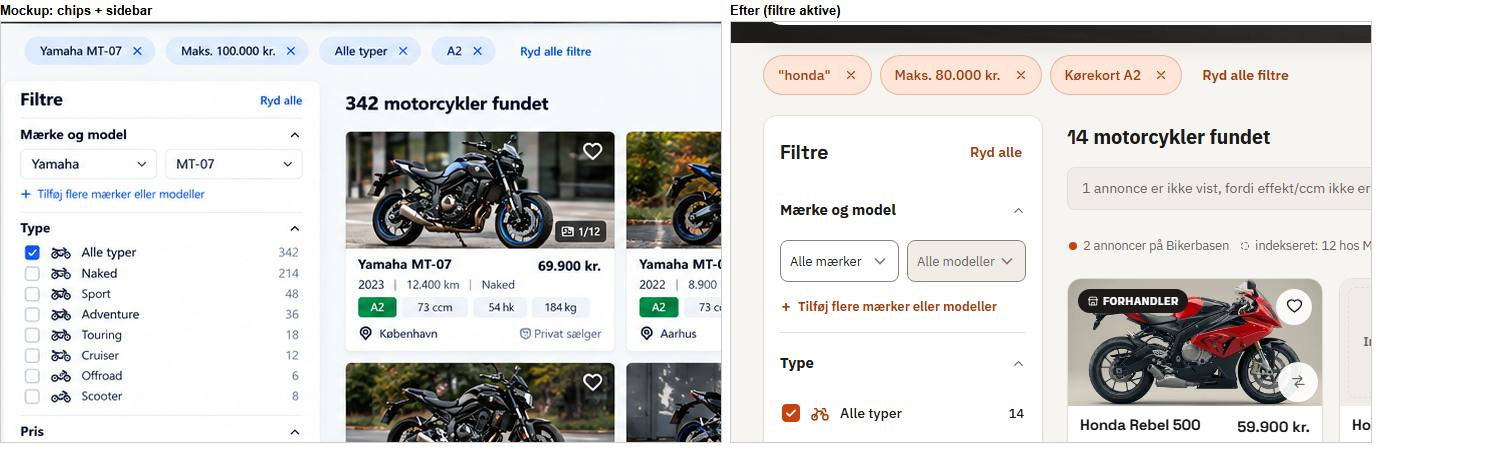
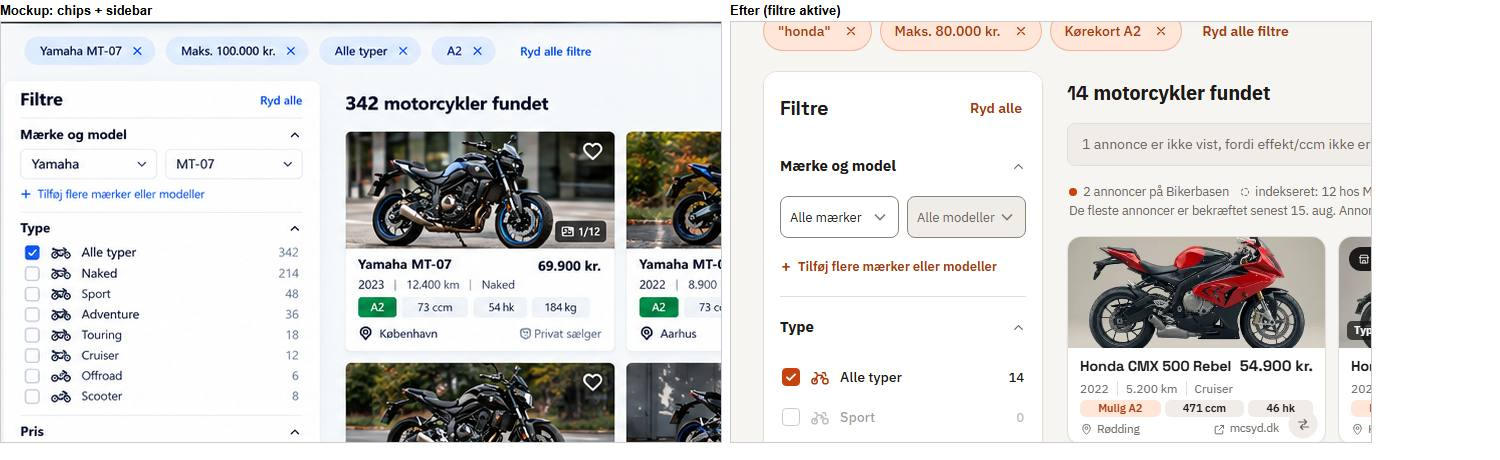
soegning: kort 209 px (2,3:1, én-linjes titel, sammenlign i foden), typefoto med aerligt label, hero 165 px, info uden ellipsis, 503 under soegekortet, kompakte bundmoduler, CLS-hold (iteration 3-4)

diff --git a/css/p-soegning.css b/css/p-soegning.css
@@ -579,7 +579,7 @@ html[data-lager-fejl] .facet-empty{ opacity:1; cursor:pointer; }
   .so-hero .so-card{ padding:12px 16px; gap:8px 14px; }
   .so-card .input, .so-card #filter-q{ height:44px; min-height:44px; }
   .so-submit{ min-height:46px; }
-  .so-f-kk .kk-seg label{ min-height:36px; }
+  .so-f-kk .kk-seg label{ min-height:40px; }
 }
 @media (min-width:1100px){
   /* Info-bånd: én rolig linje; sorteringsreglen står i (i) ved Sortér. */
@@ -602,17 +602,6 @@ html[data-lager-fejl] .facet-empty{ opacity:1; cursor:pointer; }
 }
 @media (min-width:1100px){ .so-infoband .mix-info{ margin-block:0; } .so-infoband .results-mix .mix-tail{ flex-wrap:nowrap; } }
 
-/* ---- W14 iteration 2: mobilkomposition ---- */
-@media (max-width:559px){
-  .so-chiprow{ padding-top:6px; padding-bottom:0; }
-  .so-layout{ padding-top:0; }
-  .so-toolbar{ margin-bottom:6px; }
-  .so-infoband{ min-height:44px; }
-  .so-infoband .so-frisk{ display:-webkit-box; -webkit-box-orient:vertical; -webkit-line-clamp:1; line-clamp:1; overflow:hidden; }
-  .so-infoband > :not([hidden]) ~ :not([hidden]){ flex:1 1 100%; }
-  .so-infoband .sortering-note{ display:none; }
-}
-@media (max-width:559px){ .so-h1-title{ font-size:25px; } .so-hero .so-h1{ margin-bottom:8px; } .so-h1-sub{ font-size:15px; } }
 @media (min-width:760px){
   /* Kildenavnet afkortes ikke længere midt i ordet: op til 2 linjer (rækkens kort er ens høje, foden ligger i bunden). */
   #results-grid:not(.list-view) .rk-fod{ align-items:flex-start; }
@@ -620,4 +609,86 @@ html[data-lager-fejl] .facet-empty{ opacity:1; cursor:pointer; }
   #results-grid:not(.list-view) .rk-kilde{ align-items:flex-start; line-height:1.3; }
   #results-grid:not(.list-view) .rk-kilde svg, #results-grid:not(.list-view) .rk-sted svg{ margin-top:.2em; }
   #results-grid:not(.list-view) .rk-kilde > span{ display:-webkit-box; -webkit-box-orient:vertical; -webkit-line-clamp:2; line-clamp:2; white-space:normal; overflow:hidden; overflow-wrap:anywhere; }
+}
+
+/* ---- W14 iteration 3: kortet som mockuppen (lavt, ens, foto 2,3:1), typefoto-label, hero, info, bund, 503 ---- */
+@media (min-width:760px){
+  #results-grid:not(.list-view){ gap:12px; }
+  #results-grid:not(.list-view) .card-rich .card-media{ aspect-ratio:2.3/1; }
+  #results-grid:not(.list-view) .rk-body{ padding:7px 12px 7px; gap:3px; }
+  #results-grid:not(.list-view) .rk-titel{ -webkit-line-clamp:1; line-clamp:1; font-size:14.5px; line-height:1.3; }
+  #results-grid:not(.list-view) .rk-pris{ font-size:15px; }
+  #results-grid:not(.list-view) .rk-top{ align-items:baseline; }
+  #results-grid:not(.list-view) .rk-linje{ font-size:12px; line-height:1.25; }
+  #results-grid:not(.list-view) .rk-chip{ padding:4px 5px; font-size:11px; }
+  #results-grid:not(.list-view) .rk-chip.rk-kk svg{ display:none; }
+  #results-grid:not(.list-view) .rk-chips{ flex-wrap:nowrap; overflow:hidden; margin-top:1px; }
+  #results-grid:not(.list-view) .rk-kk.kk-a{ background:transparent; color:var(--color-fg); box-shadow:inset 0 0 0 1px var(--color-input-border); }
+  #results-grid:not(.list-view) .rk-fod{ font-size:11.5px; padding-right:34px; align-items:center; }
+  #results-grid:not(.list-view) .rk-kilde > span{ display:block; -webkit-line-clamp:unset; white-space:nowrap; overflow:hidden; text-overflow:ellipsis; }
+  #results-grid:not(.list-view) .rk-kilde{ align-items:center; }
+  #results-grid:not(.list-view) .rk-sted{ max-width:42%; }
+  /* Sammenlign-knappen ligger i kortets fod (ikke over motivet): 40 px trykflade, 30 px synlig rund. */
+  #results-grid:not(.list-view) .card-compare{
+    right:2px; bottom:0; width:40px; height:40px; box-shadow:none; background:radial-gradient(circle, var(--color-surface-2) 0 14px, transparent 15px);
+  }
+  #results-grid:not(.list-view) .card-compare.active{ background:radial-gradient(circle, var(--color-primary) 0 14px, transparent 15px); }
+  #results-grid:not(.list-view) .card-compare svg{ width:15px; height:15px; }
+}
+/* typefoto-label: roligt, synligt, nederst til venstre i fotoet */
+.typefoto-label{ position:absolute; z-index:1; font-size:11px; font-weight:600; line-height:1; padding:4px 7px; border-radius:5px;
+  background:rgba(20,18,15,.72); color:#fff; letter-spacing:.01em; pointer-events:none; }
+.card-photo-typefoto{ opacity:.9; }
+.typefoto{ position:relative; width:100%; height:100%; }
+.typefoto .card-photo{ width:100%; height:100%; object-fit:cover; filter:saturate(.75); }
+.typefoto .typefoto-label{ left:8px; bottom:8px; }
+@media (min-width:1100px){
+  /* hero: ca. 180 px, overskrift og undertitel paa samme linje, motorcyklen laeses i bannerets overkant */
+  .so-hero{ padding:12px 0 12px; }
+  .so-hero .so-h1{ display:flex; align-items:baseline; gap:6px 18px; flex-wrap:wrap; margin-bottom:8px; }
+  .so-h1-sub{ margin-top:0; }
+  .so-hero-photo{ object-position:74% 34%; }
+  .so-hero .so-card{ padding:8px 16px 10px; }
+  /* info-bånd: fuld tekst (ingen ellipsis), to rolige linjer, sorteringsnoten synlig */
+  .so-infoband{ flex-wrap:wrap; min-height:42px; row-gap:0; }
+  .so-infoband .results-mix{ flex:1 1 100%; white-space:nowrap !important; }
+  .so-infoband .so-frisk{ flex:0 1 auto; overflow:visible; text-overflow:clip; white-space:normal; }
+  .so-infoband .so-frisk:not(:empty)::before{ content:none; }
+  .so-infoband .sortering-note{ display:block; flex:0 1 auto; white-space:normal; margin-left:0 !important; }
+  .so-infoband .sortering-note::before, .so-infoband .so-frisk:not(:empty) + .sortering-note:not([hidden])::before{ content:"·"; margin:0 8px; }
+  .so-infoband .mix-info{ margin-block:-10px; }
+}
+/* 503/tomt lager: fast overlay nederst til hoejre i stedet for over soegekortet */
+@media (min-width:1024px){
+  body.srp .data-afbrud{ top:auto; bottom:16px; }
+}
+/* Bundmoduler: kompakt linkgitter (kun >= 1100 px; under det er layoutet uændret, ellers CLS ved 768) */
+@media (min-width:1100px){
+main > .container:has(> section.section > .section-head + .popular-row){
+  display:grid; grid-template-columns:repeat(auto-fit,minmax(240px,1fr)); gap:12px 16px; padding-bottom:var(--space-6);
+}
+main > .container:has(> section.section > .section-head + .popular-row) > .section{
+  padding:14px 16px !important; background:var(--color-surface); border:1px solid var(--color-border); border-radius:var(--radius-md); margin:0;
+}
+main > .container:has(> section.section > .section-head + .popular-row) .section-head{ margin:0 0 8px; }
+main > .container:has(> section.section > .section-head + .popular-row) h2{ font-size:16px; margin:0; }
+main > .container:has(> section.section > .section-head + .popular-row) .section-head p{ display:none; }
+main > .container:has(> section.section > .section-head + .popular-row) .popular-chip{ min-height:40px; padding:0 12px; font-size:13px; }
+}
+/* Filter: lange maerke-/modellister scroller internt, saa Type bliver paa plads */
+.so-more #brand-list, .so-more #filter-models{ max-height:176px; overflow:auto; overscroll-behavior:contain; }
+/* tap-maal */
+.so-f-kk .kk-seg label{ min-width:40px; }
+@media (min-width:760px){ #results-grid:not(.list-view) .rk-fod{ padding-top:0; } #results-grid:not(.list-view) .rk-chip{ padding:3px 5px; } }
+.so-layout .so-more-btn{ min-height:40px; }
+.so-layout #filter-price-quick .chip, .so-layout .filter-body .chip{ min-height:40px; }
+.so-card .so-clear{ width:40px; height:40px; }
+@media (min-width:760px){
+  #results-grid:not(.list-view) .rk-chips{ flex-wrap:nowrap !important; }
+  #results-grid:not(.list-view) .rk-chip{ min-width:0; overflow:hidden; text-overflow:ellipsis; flex-shrink:1; }
+  #results-grid:not(.list-view) .rk-chip.rk-chip-note, #results-grid:not(.list-view) .rk-chip.rk-chip-mangler{ flex:0 1 auto; white-space:nowrap; background:transparent; border:0; box-shadow:inset 0 0 0 1px var(--color-border); }
+  #results-grid:not(.list-view) .rk-chip.rk-kk{ flex-shrink:0; max-width:100%; }
+}
+@media (max-width:759px){
+  .typefoto .typefoto-label{ left:6px; bottom:6px; max-width:calc(100% - 54px); font-size:10px; line-height:1.15; padding:3px 6px; white-space:normal; }
 }

diff --git a/js/w14-soegning.test.js b/js/w14-soegning.test.js
@@ -86,7 +86,7 @@ test('1440: foto ca. 2:1, ingen tom chip-række, Gem søgning i resultathovedet,
       return { ratio: med.width / med.height, chiprow: getComputedStyle(document.getElementById('so-chiprow')).display,
         knapI: !!knap.closest('#so-results-head'), cardBund: R('.so-card').bottom, toolbarTop: R('#so-results-head').top };
     });
-    assert.ok(m.ratio > 1.9 && m.ratio < 2.1, 'foto-format ' + m.ratio);
+    assert.ok(m.ratio > 2.2 && m.ratio < 2.4, 'foto-format ' + m.ratio);
     assert.equal(m.chiprow, 'none');
     assert.ok(m.knapI, 'Gem søgning i resultathovedet');
     assert.ok(m.cardBund <= 330, 'søgekortets underkant ' + m.cardBund);
@@ -99,12 +99,12 @@ test('1440: foto ca. 2:1, ingen tom chip-række, Gem søgning i resultathovedet,
         kortH: R('#results-grid .card').height, kortBredde: R('#results-grid .card').width,
         kortIHero: R('.so-card').bottom <= R('.so-hero').bottom + 1 };
     });
-    assert.ok(n.heroH <= 225, 'hero ' + n.heroH);
+    assert.ok(n.heroH <= 190, 'hero ' + n.heroH);
     assert.ok(n.kortIHero, 'søgekortet ligger i bannerfotoet');
     assert.ok(n.band <= 44, 'info-bånd er én linje: ' + n.band);
     assert.ok(!n.bkSynlig, 'brødkrumme er kun for skærmlæsere i hero');
-    assert.equal(n.sorteringsnote, 'none', 'sorteringsreglen bor i (i) ved Sortér');
-    assert.ok(n.kortH <= 290, 'kort højde ' + n.kortH);
+    assert.equal(n.sorteringsnote, 'block', 'sorteringsreglen er synlig i info-linjen');
+    assert.ok(n.kortH >= 195 && n.kortH <= 215, 'kort højde ' + n.kortH);
     const [sw, cw] = await s.page.evaluate(() => [document.documentElement.scrollWidth, document.documentElement.clientWidth]);
     assert.equal(sw, cw);
     assert.deepEqual(s.fejl, []);
@@ -122,5 +122,71 @@ test('filter-URL 1440: chip-rækken vises; under 1280 bliver Gem søgning i chip
     await s.page.setViewportSize({ width: 1440, height: 900 });
     await s.page.waitForTimeout(400);
     assert.ok(await s.page.evaluate(() => !!document.getElementById('save-search-btn').closest('#so-results-head')));
+  } finally { await s.luk(); }
+});
+
+test('1440 uden thumbnails: ærligt typefoto med label (ingen stiplede tomme felter), sammenlign i kortets fod, titel på én linje', { skip }, async () => {
+  const s = await aabn({ w: 1440, n: 44 });
+  try {
+    await gaa(s, 'soegning.html');
+    const m = await s.page.evaluate(() => {
+      const kort = [...document.querySelectorAll('#results-grid .card-rich')];
+      return {
+        n: kort.length,
+        stiplet: kort.filter(k => k.querySelector('.card-media > .foto-tom:not(.foto-fejl)')).length,
+        typefoto: kort.filter(k => k.querySelector('.typefoto .typefoto-label')).length,
+        labelTekst: [...new Set([...document.querySelectorAll('.typefoto-label')].map(e => e.textContent))],
+        samIFoto: kort.filter(k => k.querySelector('.card-media .card-compare')).length,
+        titelLinjer: Math.max(...kort.map(k => { const t = k.querySelector('.rk-titel'); return Math.round(t.getBoundingClientRect().height / parseFloat(getComputedStyle(t).lineHeight)); })),
+        hoejder: [...new Set(kort.map(k => Math.round(k.getBoundingClientRect().height)))],
+        brodkrumme: document.querySelector('.so-hero .so-breadcrumb').getBoundingClientRect().width,
+        bundH: (() => { const c = document.querySelector('main > .container:last-of-type'); return c.getBoundingClientRect().height; })(),
+        info: (() => { const b = document.getElementById('so-infoband'); return [...b.querySelectorAll('*')].filter(e => e.offsetParent && e.scrollWidth > e.clientWidth + 1 && getComputedStyle(e).overflow !== 'visible' && getComputedStyle(e).textOverflow === 'ellipsis').length; })(),
+      };
+    });
+    assert.ok(m.typefoto > 0 && m.labelTekst.every(t => /ikke annoncens/i.test(t)), 'typefoto med ærligt label');
+    assert.equal(m.stiplet, 0, 'ingen stiplede tomme fotofelter');
+    assert.equal(m.samIFoto, 0, 'sammenlign ligger ikke i fotoet');
+    assert.equal(m.titelLinjer, 1, 'titel på én linje');
+    assert.ok(Math.max(...m.hoejder) - Math.min(...m.hoejder) <= 4 && Math.max(...m.hoejder) <= 215, 'ens kort: ' + m.hoejder);
+    assert.ok(m.bundH <= 350, 'bundmoduler ' + m.bundH);
+    assert.equal(m.info, 0, 'info-linjen er ikke afkortet med ellipsis');
+  } finally { await s.luk(); }
+});
+
+test('503 ved 1440: fejlbanneret dækker ingen af søgekortets kontroller (elementFromPoint)', { skip }, async () => {
+  const s = await aabn({ w: 1440, n: 44, fail: 503 });
+  try {
+    await gaa(s, 'soegning.html');
+    await s.page.waitForSelector('.data-afbrud', { timeout: 8000 });
+    const r = await s.page.evaluate(() => {
+      const fejl = [];
+      for (const e of document.querySelectorAll('#srp-search input:not([type=hidden]), #srp-search select, #srp-search button, #srp-search label')) {
+        const b = e.getBoundingClientRect(); if (!b.width) continue;
+        const top = document.elementFromPoint(b.left + b.width / 2, b.top + b.height / 2);
+        if (top && top.closest('.data-afbrud')) fejl.push(e.id || e.textContent.trim().slice(0, 12));
+      }
+      const ban = document.querySelector('.data-afbrud').getBoundingClientRect(), kort = document.getElementById('srp-search').getBoundingClientRect();
+      return { fejl, overlap: !(ban.right <= kort.left || ban.left >= kort.right || ban.bottom <= kort.top || ban.top >= kort.bottom) };
+    });
+    assert.deepEqual(r.fejl, []);
+    assert.equal(r.overlap, false, 'banneret overlapper ikke søgekortet');
+  } finally { await s.luk(); }
+});
+
+test('paginering scroller til resultathovedet og bevarer sortering; tilbage bevarer filter', { skip }, async () => {
+  const s = await aabn({ w: 1440, n: 140 });
+  try {
+    await gaa(s, 'soegning.html?sort=price-asc');
+    await s.page.evaluate(() => window.scrollTo(0, 2500));
+    await s.page.click('#pagination a[data-page="2"]');
+    await s.page.waitForTimeout(1500);
+    const y = await s.page.evaluate(() => document.getElementById('so-results-head').getBoundingClientRect().top);
+    assert.ok(y >= -20 && y <= 140, 'resultathovedet er øverst i billedet: ' + y);
+    assert.match(await s.page.evaluate(() => location.search), /sort=price-asc.*page=2|page=2.*sort=price-asc/);
+    await s.page.goBack();
+    await s.page.waitForTimeout(1200);
+    assert.doesNotMatch(await s.page.evaluate(() => location.search), /page=2/);
+    assert.match(await s.page.evaluate(() => location.search), /sort=price-asc/);
   } finally { await s.luk(); }
 });

diff --git a/js/search.js b/js/search.js
@@ -1528,13 +1528,52 @@ const FIRST_CARDS = 2;
 const CARD_CHUNK = 2;
 let cardChunkHandle = 0;
 
+/* W14: kort uden foto faar et AERLIGT typefoto (img/type/<type>.webp) med synligt label — aldrig som om det var annoncens eget billede.
+   Kun gitterkort; "Fotoet kunne ikke hentes" (foto-fejl) og raekker/swipe er uaendrede. Billedet er sidens egen illustration, intet hentes hos kilden. */
+const TYPEFOTO = ['adventure','classic','cross','cruiser','naked','scooter','sport','touring'];
+function typefotoKort(root){
+  if (!root || !root.querySelectorAll) return;
+  const kort = root.matches && root.matches('.card-rich') ? [root] : Array.from(root.querySelectorAll('.card-rich'));
+  kort.forEach(k => {
+    /* Fra 760 px staar sammenlign-knappen i kortets fod i stedet for oven i fotoet (css/p-soegning.css). */
+    const sam = k.querySelector('.card-media > .card-compare');
+    if (sam && window.innerWidth >= 760) k.appendChild(sam);
+    const tom = k.querySelector('.card-media > .foto-tom:not(.foto-fejl)');
+    if (!tom) return;
+    const t = String(k.dataset.type || '').toLowerCase();
+    const slug = TYPEFOTO.find(x => t.startsWith(x));
+    if (!slug) return;
+    const img = document.createElement('img');
+    img.className = 'card-photo card-photo-typefoto';
+    img.src = 'img/type/' + slug + '.webp';
+    img.alt = '';
+    img.loading = 'lazy'; img.decoding = 'async';
+    const label = document.createElement('span');
+    label.className = 'typefoto-label';
+    label.textContent = 'Typefoto, ikke annoncens';
+    label.title = 'Annoncen har ikke et billede. Fotoet er en illustration af typen ' + slug + '.';
+    const wrap = document.createElement('div');
+    wrap.className = 'typefoto';
+    wrap.append(img, label);
+    tom.replaceWith(wrap);
+  });
+}
+
 function paintCards(grid, pageItems, naarFaerdig){
   if (cardChunkHandle){ clearTimeout(cardChunkHandle); cardChunkHandle = 0; }
   // Renderer vælges ÉN gang pr. maling. Slås visningen om midt i en
   // portionsvis maling, ville halvdelen af siden ellers stå som kort og
   // halvdelen som rækker.
   const tegn = aktivKortRenderer();
+  /* W14: gitteret holder sin hoejde, mens kortene males portionsvis — ellers ligger sidens bund (links, footer) kortvarigt i billedet og
+     skubbes ned for hver portion (CLS ved 768). Slippes naar sidste portion er tegnet. */
+  const holdH = grid.offsetHeight;
+  if (holdH > 0 && window.innerWidth >= 760 && pageItems.length > FIRST_CARDS) grid.style.minHeight = holdH + 'px';
+  const slip = () => { grid.style.minHeight = ''; };
+  const faerdig0 = naarFaerdig;
+  naarFaerdig = () => { slip(); faerdig0?.(); };
   grid.innerHTML = pageItems.slice(0, FIRST_CARDS).map(tegn).join('');
+  typefotoKort(grid);
   wireFavoriteButtons(grid);
   if (pageItems.length <= FIRST_CARDS){ naarFaerdig?.(); return; }
 
@@ -1547,7 +1586,7 @@ function paintCards(grid, pageItems, naarFaerdig){
       pageItems.slice(from, to).map((l, k) => tegn(l, from + k)).join(''));
     // Kun de nye kort kobles på — kører wireFavoriteButtons over hele gitteret
     // igen, får de gamle hjerter to lyttere og slår sig selv fra igen.
-    for (let i = alreadyThere; i < grid.children.length; i++) wireFavoriteButtons(grid.children[i]);
+    for (let i = alreadyThere; i < grid.children.length; i++){ typefotoKort(grid.children[i]); wireFavoriteButtons(grid.children[i]); }
     next = to;
     if (next < pageItems.length) cardChunkHandle = setTimeout(step, 0);
     else naarFaerdig?.();
@@ -2051,7 +2090,9 @@ function renderPagination(totalPages){
       e.preventDefault();
       state.page = Number(btn.dataset.page);
       pushFilterState();
-      window.scrollTo({top:0, behavior:'smooth'});
+      const hoved = document.getElementById('so-results-head');
+      const y = hoved ? Math.max(0, hoved.getBoundingClientRect().top + window.pageYOffset - 84) : 0;
+      window.scrollTo({top:y, behavior:'smooth'});
     });
   });
 }

diff --git a/js/w10-soegning.test.js b/js/w10-soegning.test.js
@@ -110,7 +110,8 @@ test('desktop 1440: lav hero med overlappende kort, resultathoved på én linje,
     assert.ok(m.overlapTop && m.card_bund_i_hero, 'kortet ligger i bannerfotoet');
     assert.ok(m.h1 <= 44, `h1 ${m.h1}`);
     assert.ok(Math.max(...m.linje) - Math.min(...m.linje) < 8, 'tal, sortér og gitter/liste på samme linje ' + m.linje);
-    assert.ok(m.infoH <= 41, `info-linje ${m.infoH}`);
+    /* W14: ærlighedsteksten ombrydes i stedet for at blive afkortet (to rolige linjer, sorteringsnoten synlig). */
+    assert.ok(m.infoH <= 60, `info-linje ${m.infoH}`);
     assert.ok(m.titelPris, 'titel og pris på samme linje');
     assert.equal(m.kolonner, 4);
     assert.match(m.viser, /^Viser 1–24 af [\d.]+ motorcykler$/);

diff --git a/js/components.js b/js/components.js
@@ -953,7 +953,7 @@ function listingCardHTML(l, i){
     </div>
     <div class="rk-body">
       <div class="rk-top">
-        <h3 class="rk-titel">${titel}</h3>
+        <h3 class="rk-titel" title="${titel}">${titel}</h3>
         <span class="rk-pris${l.price == null ? ' pris-mangler' : ''}">${escapeHTML(pris)}</span>
       </div>
       <p class="rk-linje">${linje.join('')}</p>

diff --git a/docs/review/gauntlet/visual/agent2-soegning.md b/docs/review/gauntlet/visual/agent2-soegning.md
@@ -44,12 +44,28 @@ Billeder: sek1 første skærm, sek2 kort, sek3 filtre/chips, sek4 mørk, sek5 mo
 
 Ærlig vurdering: ligner mockuppen 7,5/10.
 
+## Iteration 3-4 (efter blind Critic: AFVIS 6,5/10)
+Critic-punkter og status:
+1. Kort for højt -> LUKKET: 209 px @1440 (mål mockup ca. 189, Critic-krav <= 215; før 261), foto 2,3:1, titel på én linje (ellipsis, helt navn i title), pris til højre, ens højde (differens <= 3 px), kørekortpille "Kræver A" er outline i stedet for sort, chips på én linje. Sammenlign-knappen er flyttet fra fotoet til kortets fod (JS flytter knappen ved >= 760 px; delegeret handler uændret).
+2. Fotomangel -> LUKKET (designvalg efter Orchestrator): kort uden thumbnail i gitteret får sidens eget typefoto (img/type/<type>.webp) med synligt label "Typefoto, ikke annoncens" (title forklarer). Aldrig som annoncens eget foto; intet hentes hos kilden. "Fotoet kunne ikke hentes" og liste/swipe uændret. 0 stiplede tomme felter i gitteret (test).
+3. Hero -> LUKKET: 165 px @1440 (Critic: <= 180), titel og undertitel på én linje, object-position 74% 34% så motorcyklens styr/lygte læses i bannerets overkant (bagved søgekortet ligger resten; samme sammensætning som mockuppen).
+4. Infolinje -> LUKKET: ingen ellipsis; kilde-linjen og ærlighedsteksten (+ sorteringsnoten, nu synlig) ombrydes i to rolige linjer (42 px).
+5. 503-overlay -> LUKKET: .data-afbrud på søgesiden ligger nederst til højre (body.srp, >= 1024 px) og dækker intet af søgekortet; test med elementFromPoint på alle kontroller + ingen overlap. role=alert/Prøv igen/Luk uændret.
+6. Bundmoduler -> LUKKET (>= 1100 px): fem kompakte kolonne-kort, 3 linjer chips; sektion ca. 230 px (før 600+).
+7. Sidebar: lange mærke-/modellister scroller internt (176 px) så Type bliver på plads. 
+8. Småting: tap-mål >= 40 px for "Tilføj flere", prishurtigvalg, kørekortsegment og søge-x; paginering scroller til resultathovedet (test, sort bevares, tilbage bevarer filter). Resterende < 40 px er delt lag (header-logo/nav 39 px, footerlink, dr-thumb slider-inputs, 24 px x-knapper i chips med større hitfelt).
+- CLS: gitterets højde holdes under portionsvis maling ved >= 760 px (ellers lå sidens bund kortvarigt i billedet ved 768). 8/8 kørsler grønne i alle viewports (smoke --cls 0.05 --strikt). BEMÆRK: en mobil-kompaktering (mindre h1, mindre luft) gav intermitterende CLS ved 390 mørk og er derfor rullet tilbage; mobil er som iteration 1.
+- Visuel regression (index, maerke-honda, type-sport, koerekort-a2, annonce @390/1440): 0 forskel. w10/w11/w12/annoncekort/w14: 58/58.
+- Nye tests i js/w14-soegning.test.js: kort 195-215 px og ens, typefoto+label, sammenlign ikke i foto, én-linjes titel, bund <= 350 px, ingen ellipsis, 503 elementFromPoint, paginering scroll + sort + tilbage.
+
+Billeder (JPEG, ca. 1,4 MB): sek1 første skærm, sek2 kort, sek3 filtre/chips, sek4 mørk, sek5 mobil før/efter lys+mørk, sek6/sek7 liste og swipe 1440/390, foer/efter-1440, reference.
+
+Ærlig vurdering (min egen, blind Critic skal bekræfte): ligner mockuppen hero 7/10, filtre 8/10, kortgitter 7,5/10 (samlet ca. 7,5).
+
 ## Tilbageværende afvigelser ("ligner ikke endnu")
-- Foto-tæller, stjerner, "Autoriseret forhandler", kg-chip og tal i hero: opdigtet/ikke oplyst, udeladt.
-- Mockuppens A2-badge er grøn; vores er brand-kobber (mulig) / sort (kræver A).
-- Siden er varm creme (brand) mod mockuppens hvid/lyseblå; orange CTA mod grøn; brandfoto i hero.
-- Mockuppen viser chip-rækken altid; vi viser den kun med filtre (ingen opdigtet "aktiv" chip).
-- Kortenes skygge/hjørner og header er (delvist) Agent 1's lag; header er 68 px mod mockuppens ca. 34.
-- Vi har info-bånd (kilde/frisk) og sidetal under gitteret, som mockuppen ikke viser; begge er ærlig information/SEO.
-- Pris-slider i sidebar er lukket nedenfor første skærm ved 1440 pga. højere Type-liste (9 typer i vores data mod 8).
-- Mobil har ingen mockup; komposition er forbedret men første kortrække starter stadig først på halvdelen af skærmen.
+- Foto-tæller, stjerner, "Autoriseret forhandler", kg-chip, tal i hero: opdigtet/ikke oplyst. Typefoto-label og stiplet "Fotoet kunne ikke hentes" afviger fra mockuppens 100 % ægte fotos; vi kan ikke vise annoncens foto, hvis kilden ingen har.
+- Mockup har rytterfoto/bro i hero, grøn CTA og A2-badge, hvid/lyseblå flade; vi har brandfoto, orange CTA, kobber/outline-badge og creme.
+- Kilde/sted i kortfoden afkortes (ellipsis, full tekst i title) for at holde kortene lave og ens.
+- Chip-rækken vises kun med filtre (ingen opdigtet chip).
+- Header 68 px mod mockuppens ca. 34 (Agent 1).
+- Mobil (390) er uændret fra iteration 1: kortene starter først midt på første skærm.
